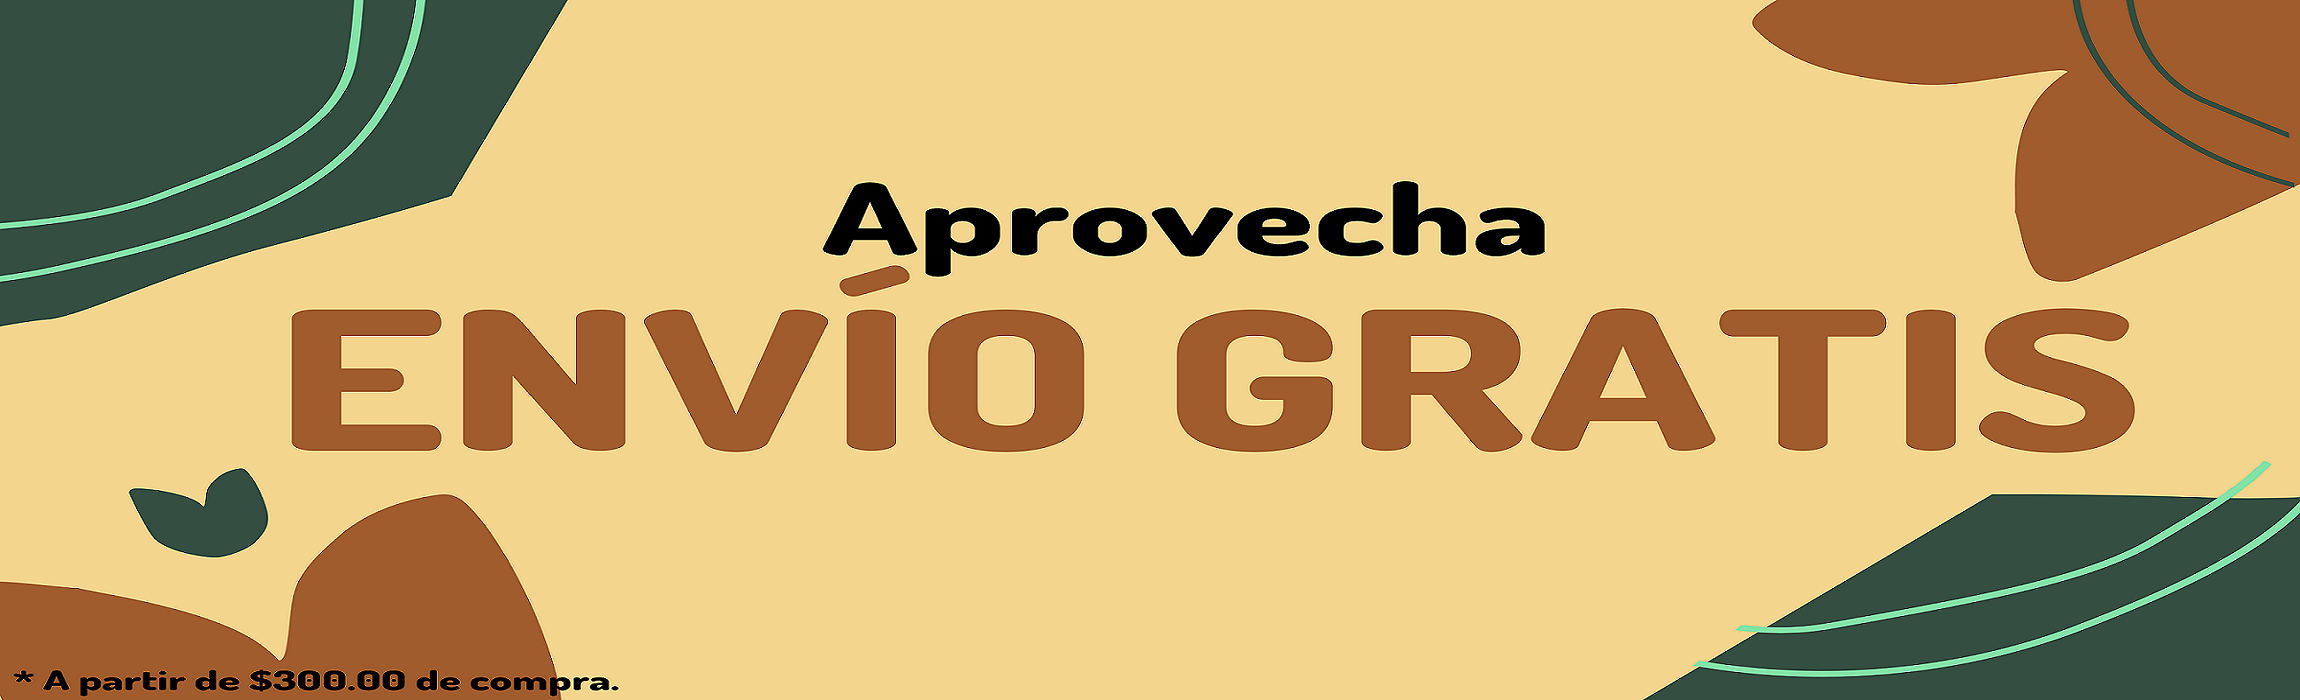
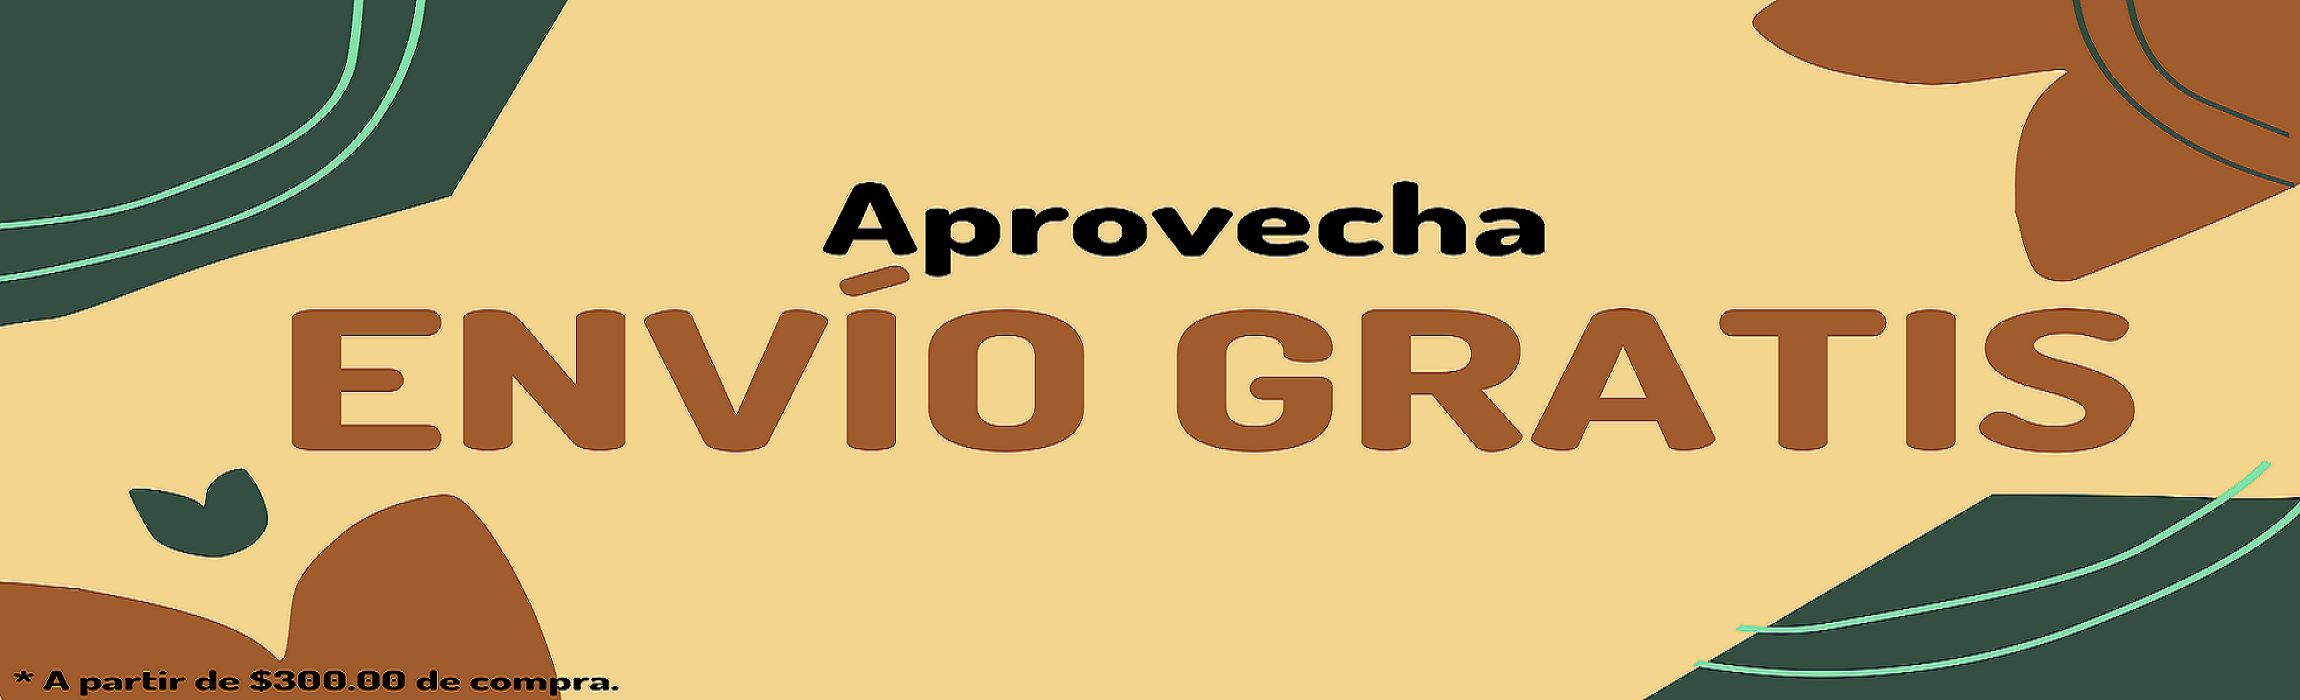
Se agrega categoria Promos, se agrega contador a carrito

diff --git a/store/src/main.js b/store/src/main.js
@@ -5,13 +5,14 @@ var buttonMolido = document.querySelector("#botonMolido");
 var productoMolido = document.querySelector("#Molido1");
 var DOMcatalogo = document.querySelector('.listaProductos');
 var DOMitems = document.querySelector('#items');
+var carritoBadge = document.querySelector('#iconoCarrito');
 const baseDeDatos = [
         {
             id: 1,
             nombre: 'Yatzil Molido',
             precio: 149.99,
             precioPromo: 129.99,
-            promoStatus: true,
+            promoStatus: false,
             origen: 'Origen: Chiapas.',
             sabor: 'Sabor: Intenso-suave.',
             contenido: 'Contenido: 500g.',
@@ -35,7 +36,7 @@ const baseDeDatos = [
             nombre: 'Yaxkin Molido',
             precio: 149.99,
             precioPromo: 129.00,
-            promoStatus: true,
+            promoStatus: false,
             origen: 'Origen: Veracruz.',
             sabor: 'Sabor: Intenso-fuerte.',
             contenido: 'Contenido: 500g.',
@@ -83,7 +84,7 @@ const baseDeDatos = [
             nombre: 'Imox Grano',
             precio: 129.99,
             precioPromo: 99.99,
-            promoStatus: true,
+            promoStatus: false,
             origen: 'Origen: Tabasco.',
             sabor: 'Sabor: Intenso-medio.',
             contenido: 'Contenido: 500g.',
@@ -107,7 +108,7 @@ const baseDeDatos = [
             nombre: 'Amaité Grano',
             precio: 129.99,
             precioPromo: 99.99,
-            promoStatus: true,
+            promoStatus: false,
             origen: 'Origen: Tabasco.',
             sabor: 'Sabor: Suave, chocolate.',
             contenido: 'Contenido: 500g.',
@@ -125,6 +126,66 @@ const baseDeDatos = [
             contenido: 'Contenido: 500g.',
             categoria:'Grano',
             imagen: '/src/ixchelgranov.jpg'
+        },
+        {
+            id: 11,
+            nombre: 'Doblemente Intenso',
+            precio: 299.98,
+            precioPromo: 279.99,
+            promoStatus: true,
+            origen: 'Origen: Chiapas.',
+            sabor: 'Contiene 2 Yaxkin Molido de 500g cada uno.',
+            contenido: '',
+            categoria:'Paquete',
+            imagen: '/src/promo1.jpg'
+        },
+        {
+            id: 12,
+            nombre: 'Mujer Coffee Kode',
+            precio: 279.98,
+            precioPromo: 249.99,
+            promoStatus: true,
+            origen: 'Origen: Tabasco.',
+            sabor: 'Contiene 1 Ixchel Molido y 1 de Grano de 500g cada uno.                        ',
+            contenido: '',
+            categoria:'Paquete',
+            imagen: '/src/promo2.jpg'
+        },
+        {
+            id: 13,
+            nombre: 'Coffee Kode Plus',
+            precio: 389.97,
+            precioPromo: 349.99,
+            promoStatus: true,
+            origen: 'Origen: Veracruz.',
+            sabor: 'Contiene Amaité, Yatzil y Yaxkin de Grano de 500g.',
+            contenido: '',
+            categoria:'Paquete',
+            imagen: '/src/promo3.jpg'
+        },
+        {
+            id: 14,
+            nombre: 'Koffee Code Premium',
+            precio: 449.97,
+            precioPromo: 399.99,
+            promoStatus: true,
+            origen: 'Origen: Tabasco.',
+            sabor: 'Contiene Amaité, Yatzil y Yaxkin Molido de 500g.',
+            contenido: '',
+            categoria:'Paquete',
+            imagen: '/src/promo4.jpg'
+        },
+        {
+            id: 15,
+            nombre: 'Coffee Kode Ultimate',
+            precio: 649.95,
+            precioPromo: 549.99,
+            promoStatus: true,
+            origen: 'Origen: Chiapas.',
+            sabor: 'Contiene 5 bolsas de 500g de cada uno de nuestros Cafés de Grano.',
+            contenido: '',
+            categoria:'Paquete',
+            imagen: '/src/promo5.jpg'
         },
 ];
 
@@ -181,6 +242,7 @@ function mostrarMolido() {
             miNodoBoton.classList.add('storeButton1', 'agregar-carrito');
             miNodoBoton.textContent = 'AÑADIR +';
             miNodoBoton.setAttribute('data-id', producto.id);
+            miNodoBoton.addEventListener('click', agregarCarrito);
 
             // Insertamos
             DOMcatalogo.appendChild(miNodo);
@@ -255,6 +317,7 @@ function mostrarGrano(){
             miNodoBoton.classList.add('storeButton1', 'agregar-carrito');
             miNodoBoton.textContent = 'AÑADIR +';
             miNodoBoton.setAttribute('data-id', producto.id);
+            miNodoBoton.addEventListener('click', agregarCarrito);
 
             // Insertamos
             DOMcatalogo.appendChild(miNodo);
@@ -279,7 +342,7 @@ function mostrarGrano(){
 
 function mostrarPromociones(){
     categoriaMostrada.innerHTML = "PROMOCIONES";
-            DOMitems.removeChild(DOMcatalogo);
+        DOMitems.removeChild(DOMcatalogo);
         DOMcatalogo = document.createElement('div');
         DOMcatalogo.classList.add('row', 'row-cols-1', 'row-cols-sm-2', 'row-cols-md-3', 'row-cols-lg-4', 'g-4', 'listaProductos');
         DOMitems.appendChild(DOMcatalogo);
@@ -311,8 +374,9 @@ function mostrarPromociones(){
             let miNodoLista = document.createElement('ul');
             miNodoLista.classList.add('list-unstyled', 'mt-3', 'mb-4');
             // Items en lista de Card-Body
-            let miNodoListaOrigen = document.createElement('li');
-            miNodoListaOrigen.textContent = producto.origen;
+            let miNodoListaPrecioAnterior = document.createElement('li');
+            miNodoListaPrecioAnterior.textContent = producto.precio;
+            miNodoListaPrecioAnterior.classList.add('precioAnterior');
             let miNodoListaSabor = document.createElement('li');
             miNodoListaSabor.textContent = producto.sabor;
             let miNodoListaContenido = document.createElement('li');
@@ -322,12 +386,13 @@ function mostrarPromociones(){
             miNodoPrecio.classList.add('pricing-card-title', 'precio');
             miNodoPrecio.textContent = '$';
             let miNodoSpan = document.createElement('span');
-            miNodoSpan.textContent = producto.precio;
+            miNodoSpan.textContent = producto.precioPromo;
             // Boton 
             let miNodoBoton = document.createElement('button');
             miNodoBoton.classList.add('storeButton1', 'agregar-carrito');
             miNodoBoton.textContent = 'AÑADIR +';
             miNodoBoton.setAttribute('data-id', producto.id);
+            miNodoBoton.addEventListener('click', agregarCarrito);
 
             // Insertamos
             DOMcatalogo.appendChild(miNodo);
@@ -340,7 +405,7 @@ function mostrarPromociones(){
             miNodoCardBody.appendChild(miNodoLista);
             miNodoCardBody.appendChild(miNodoBoton);   
             miNodoPrecio.appendChild(miNodoSpan);
-            miNodoLista.appendChild(miNodoListaOrigen);
+            miNodoLista.appendChild(miNodoListaPrecioAnterior);
             miNodoLista.appendChild(miNodoListaSabor);
             miNodoLista.appendChild(miNodoListaContenido);
 
@@ -350,6 +415,20 @@ function mostrarPromociones(){
         
 }
 
+let badge = document.createElement('span');
+badge.classList.add('position-absolute', 'top-0', 'start-100', 'translate-middle', 'badge', 'rounded-pill', 'bg-danger', 'carritoContador');
+
+
+function agregarCarrito(){
+    carritoBadge.appendChild(badge);
+    carritoBadge.removeChild(badge);
+    badge = document.createElement('span');
+    badge.classList.add('position-absolute', 'top-0', 'start-100', 'translate-middle', 'badge', 'rounded-pill', 'bg-danger', 'carritoContador');
+    badge.textContent = contadorItems;
+    carritoBadge.appendChild(badge);
+    contadorItems++; 
+}
+var contadorItems = 1;
 mostrarMolido();
 
 buttonMolido.addEventListener("click", mostrarMolido);

diff --git a/store/tienda.html b/store/tienda.html
@@ -52,27 +52,13 @@
                 </span></a>
           </li>
           <li class="nav-item dropdown">
-            <a class="nav-link dropdown" href="#" role="button" data-bs-toggle="dropdown"  aria-haspopup= "true" aria-expanded="false">
+            <a id="iconoCarrito" class="nav-link" href="#" role="button" data-bs-toggle="dropdown"  aria-haspopup= "true" aria-expanded="false">
               <link rel="stylesheet" href="https://fonts.googleapis.com/css2?family=Material+Symbols+Outlined:opsz,wght,FILL,GRAD@48,400,1,0" />
               <span class="material-symbols-outlined">
               shopping_cart
-              </span></a>
-              <div id="carrito" class="dropdown-menu" aria-labelledby="navbarCollapse">
-                <table id="lista-carrito" class="table">
-                    <thead> Tu carrito está vacío
-                        <tr>
-                            <th></th>
-                            <th></th>
-                            <th></th>
-                            <th></th>
-                        </tr>
-                    </thead>
-                    <tbody></tbody>
-                </table>
-                <a href="#" id="procesar-pedido" class="storeButton1">Procesar
-                    Compra</a>
-            </div>
-
+              </span>  
+ 
+            </a>
           </li>
         </ul>
         <form class="d-flex" role="search">
@@ -90,12 +76,12 @@
     <div id="carouselExampleInterval" class="carousel slide" data-bs-ride="carousel">
         <div class="carousel-inner">
           <div class="carousel-item active" data-bs-interval="5000">
-            <img src="/src/banner1.png" class="d-block w-100 img-fluid" alt="Envio Gratis" height="50px">
+            <img src="/src/banner3.png" class="d-block w-100 img-fluid" alt="Envio Gratis" height="50px">
           </div>
-          <div class="carousel-item" data-bs-interval="5000">
-            <img src="/src/banner2.jpg" class="d-block w-100 img-fluid" alt="..." height="50px">
+          <div class="carousel-item" data-bs-interval="4000">
+            <img src="/src/banner2.png" class="d-block w-100 img-fluid" alt="..." height="50px">
           </div>
-          <div class="carousel-item" data-bs-interval="5000">
+          <div class="carousel-item" data-bs-interval="3000">
             <img src="/src/banner1.png" class="d-block w-100 img-fluid" alt="..." height="50px">
           </div>
         </div>

diff --git a/store/styles/styles.css b/store/styles/styles.css
@@ -176,3 +176,13 @@ color: black;
   padding-top: 0px;
   padding-bottom: 0px;
 }
+
+.precioAnterior{
+  color: #344E41;
+  text-decoration:line-through;
+}
+
+.carritoContador{
+  color: white;
+  font-family: 'Fraunces', serif;
+}
